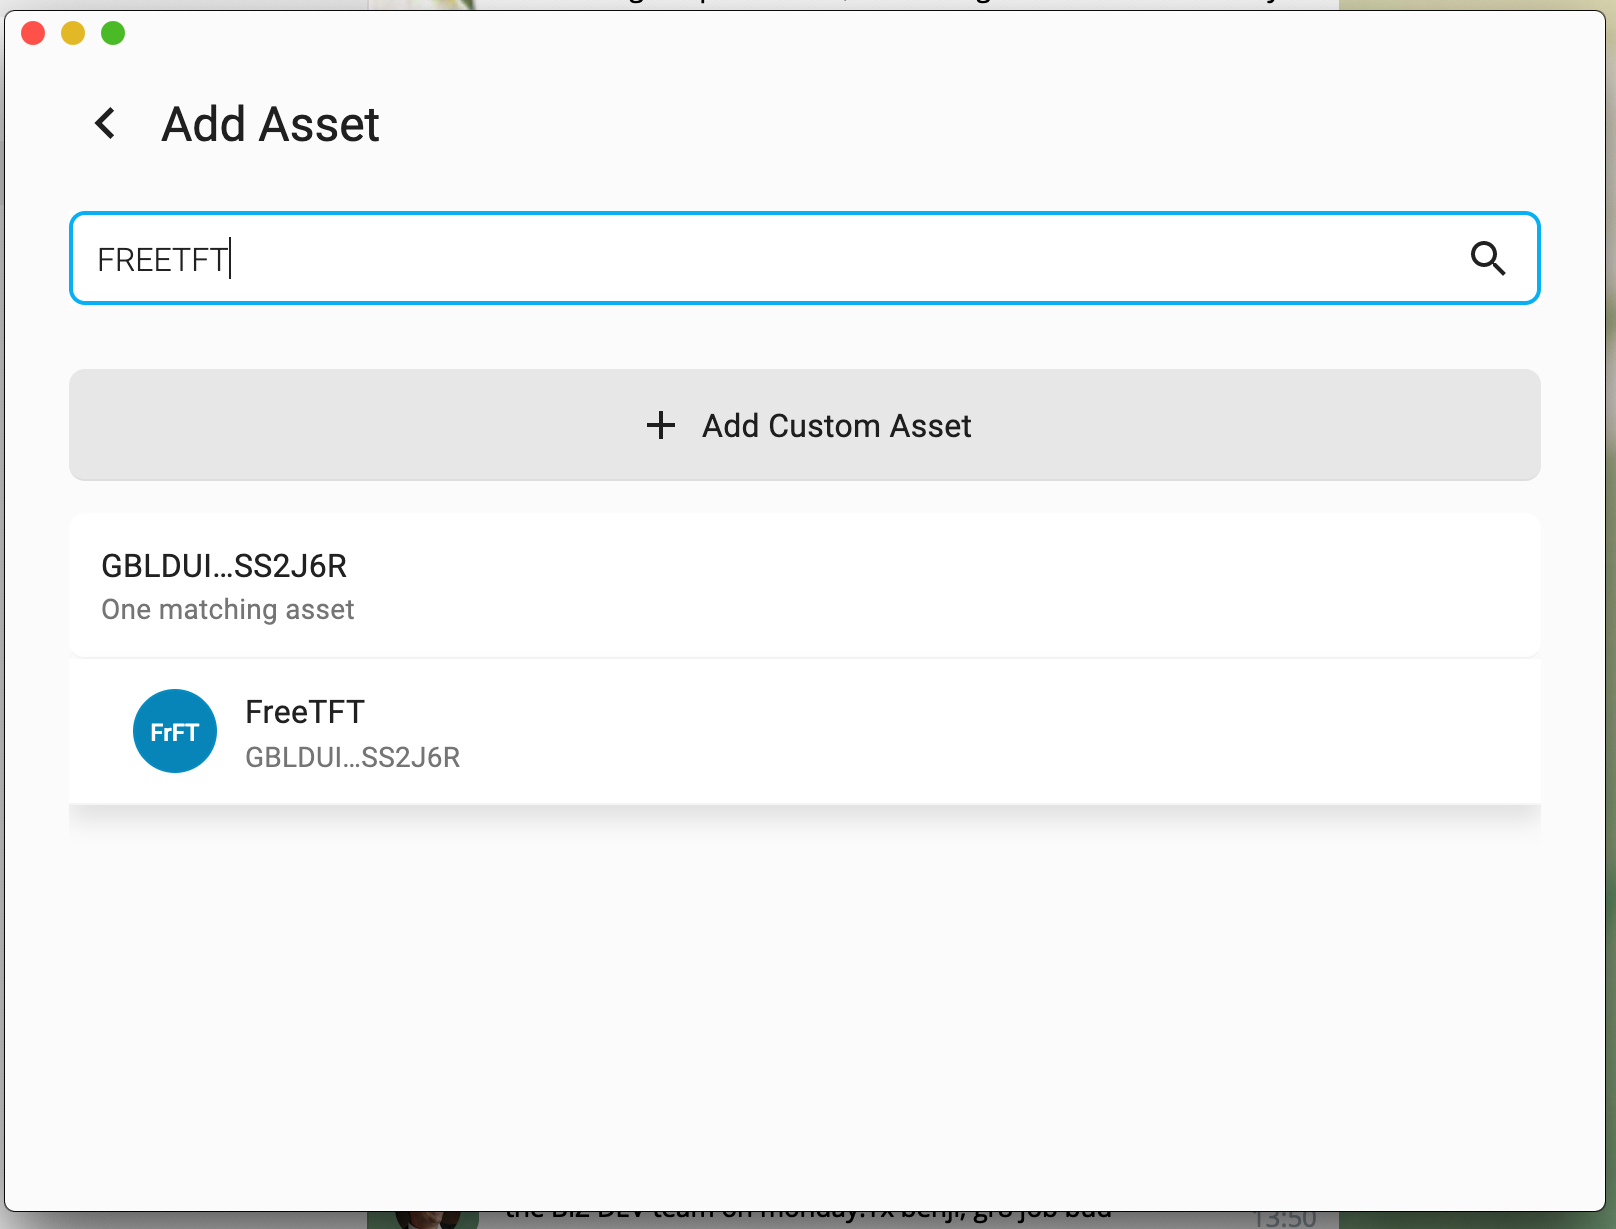
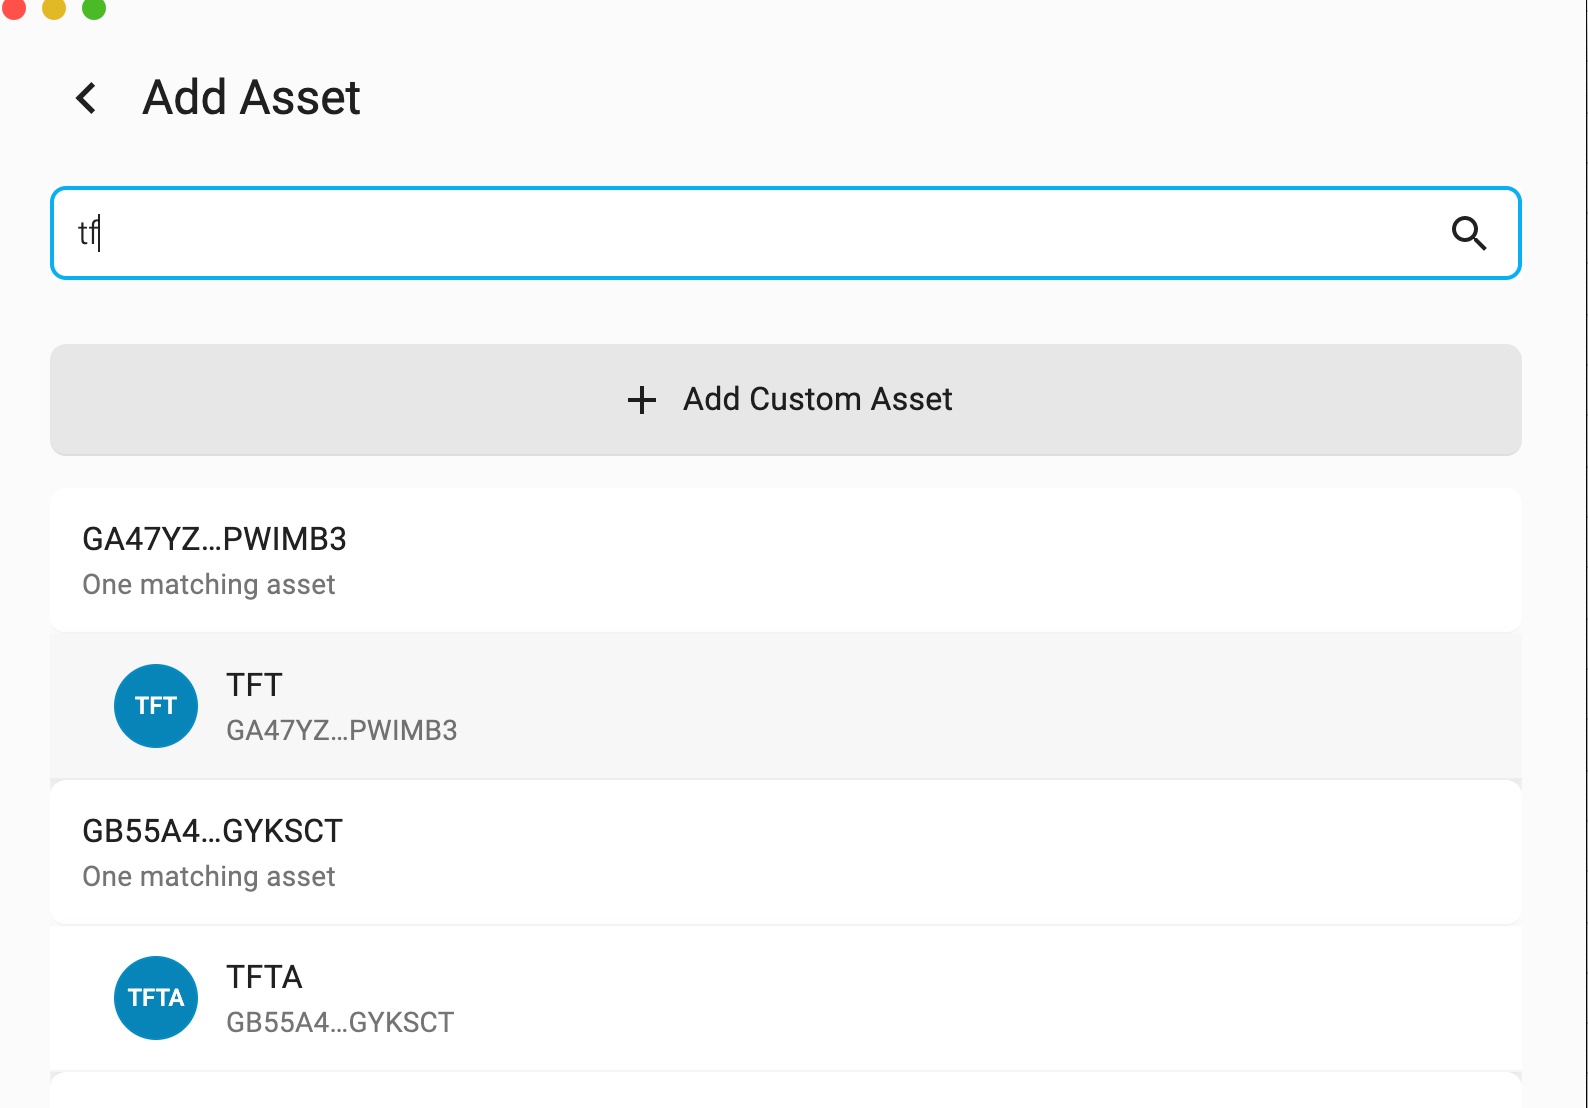
edit 3bot link

diff --git a/src/gettingstarted/solar_wallet.md b/src/gettingstarted/solar_wallet.md
@@ -80,7 +80,7 @@ Now repeat the same procedure as creating a mainnet wallet account by setting up
 
 You will be automatically redirected to your new wallet homepage. Congratulations, now you have officially set up a testnet Solar wallet!
 
-## Add FreeFTT to your Testnet Solar Wallet
+## Add Testnet FTT to your Testnet Solar Wallet
 
 ### Get some Testnet Lumens
 
@@ -88,11 +88,11 @@ You will be automatically redirected to your new wallet homepage. Congratulation
 
 By default, your could only set up another token asset (in this case, FreeTFT) in your testnet wallet once you have addes some testnet lumens (XLM) in your wallet. Simply click on __'Ask the Friendbot'__ to get some free Testnet Lumens.
 
-### Set up a New Asset (FreeTFT)
+### Set up a New Asset (TFT)
 
 ![](./img/solar/14_solar_assets.png)
 
-Once your testnet lumens fund is successfully added, click on the __'menu' button__ on the top left corner of your wallet homepage and click on __'Assets & Balance'__ to add FreeTFT as our new asset.
+Once your testnet lumens fund is successfully added, click on the __'menu' button__ on the top left corner of your wallet homepage and click on __'Assets & Balance'__ to add TFT as our new asset.
 
 ![](./img/solar/15_solar_add.png)
 
@@ -100,11 +100,11 @@ On the asset list page, click __'add asset to your account'__ button
 
 ![](./img/solar/16_solar_addtft.png)
 
-Find FreeTFT and click on __'add custom asset'__
+Find TFT and click on __'add custom asset'__
 
 ![](./img/solar/17_solar_freetft.png)
 
-Here you will find FreeTFT asset information. Set the asset up by clicking on __'add asset to your account'__ button.
+Here you will find TFT asset information. Set the asset up by clicking on __'add asset to your account'__ button.
 
 ![](./img/solar/18_confirmtft.png)
 
@@ -112,28 +112,28 @@ Confirm the FreeTFT addition by clicking on __'confirm'__ button.
 
 ![](./img/solar/19_solar_home.png)
 
-Congratulations! Now you have successfully add Freetft as an asset on your testnet Solar wallet. Now let's add some funds, go and __claim your FreeTFT!__ by clicking __'RECEIVE'__ on your wallet homepage.
+Congratulations! Now you have successfully add Freetft as an asset on your testnet Solar wallet. Now let's add some funds, go and __claim your TFT!__ by clicking __'RECEIVE'__ on your wallet homepage.
 
 ### Claim your FreeTFT
 
 ![](./img/solar/22_receive_address.png)
 
-You will now be automatically redirected to your wallet address key. __Copy this address__ as your receiving address for your FreeTFT Claim.
+You will now be automatically redirected to your wallet address key. __Copy this address__ as your receiving address for your TFT Claim.
 
 ### Claim FreeTFT via ThreeFold 
 
-Now go back to your web browser and click on [getfreetft.testnet.Threefold.io](https://getfreetft.testnet.Threefold.io/#/) to claim your FreeTFT.
+Now go to your web browser and go to [gettft.testnet.grid.tf](https://getfreetft.testnet.Threefold.io/#/) to claim your FreeTFT.
 
 ![](./img/solar/receive_login.png)
 
-__Connect your 3Bot ID__ via 3Bot Connect App to login to the FreeTFT Claim Page.
+__Connect your 3Bot ID__ via 3Bot Connect App to login to the TFT Claim Page.
 
 ![](./img/solar/24_receive_done.png)
 
-Insert your paste your Solar Testnet Wallet address on the given form and click _enter_ to receive your FreeTFT within minutes. 
+Insert your paste your testnet Stellar wallet address on the given form and click _enter_ to receive your TFT within minutes. 
 
 ![](./img/solar/testnet_success.png)
 
-__Go back to your Solar Testnet Wallet account__ and see if 1000 TFT is added automatically. If yes, then, congratulations, you have successfuly claimed your FreeTFT to get started with deploying your solutions via [__TF Grid 2.2 Demo__](threefold_now.md)
+__Go back to your Testnet Wallet account__ and see if 1000 testnet TFT is added automatically. If yes, then, congratulations, you have successfuly claimed your TFT to get started with deploying your solutions via [__3Bot__](3bot.md) or [__TF Grid 2.2 Demo__](threefold_now.md)
 
-> If you have problem with adding FreeTFT, feel free to contact our [Support Helpdesk](https://Threefoldfaq.crisp.help/en/).
+> If you have problem with adding testnet TFT, feel free to contact our [Support Helpdesk](https://Threefoldfaq.crisp.help/en/).

diff --git a/src/intro.md b/src/intro.md
@@ -25,7 +25,7 @@ Hi! Welcome to the __TF Grid Manual__, the knowledge base for those interested i
    - [Web Gateway](architecture_webgateway.md)
    - [Planetary Lan](tf_lan.md)
    - [0-Container Virtual FS](architecture_flist.md)
-- [__Getting Started__](getting_started.md)
+- [__Getting Started__](getting_started_all.md)
 - [__3Bot__ Your Virtual System Administrator](3bot.md)
 - [__Develop your own solutions__](develop.md)
 
